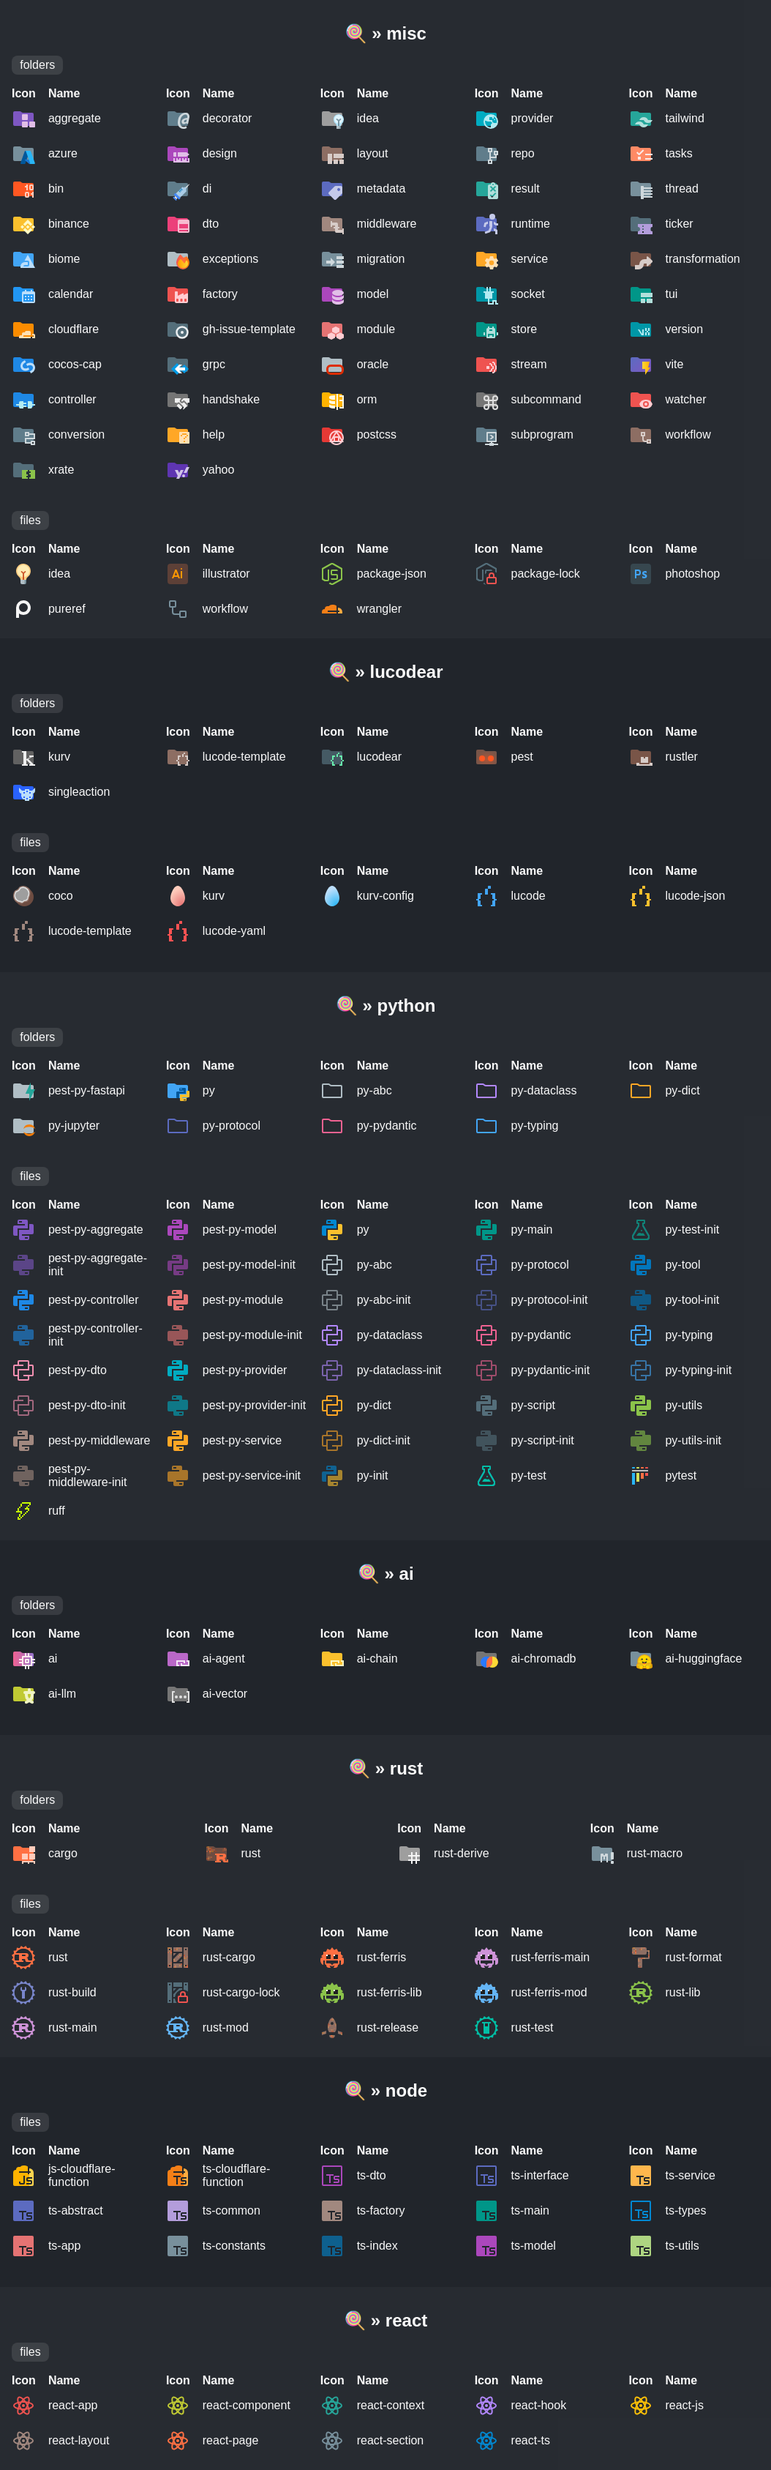
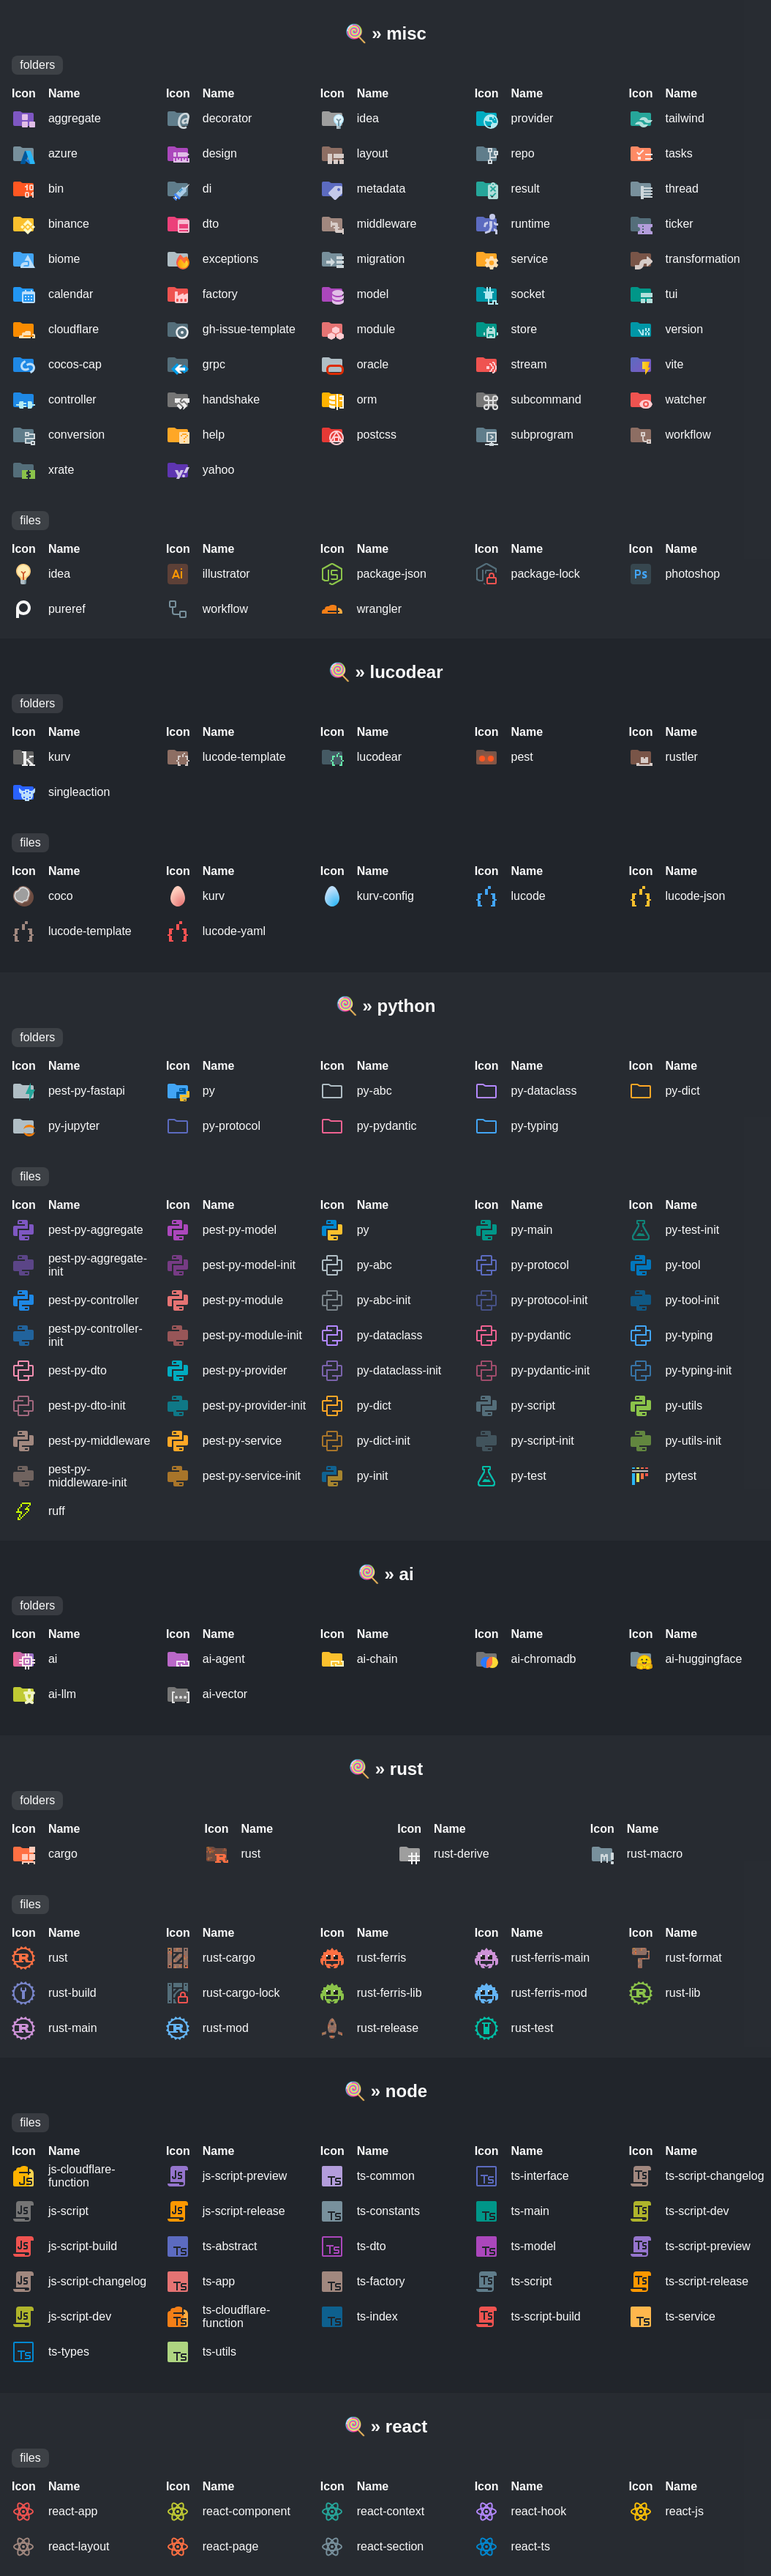
release: 🔖 v1.4.0

diff --git a/CHANGELOG.md b/CHANGELOG.md
@@ -3,10 +3,22 @@
  All notable changes to this project will be documented in this file. Dates are displayed in UTC.
 
  
+#### [v1.4.0](https://github.com/lucodear/lucodear-icons/compare/v1.3.0...v1.4.0) 
+
+> August 5, 2024 
+
+- feat(node): ✨ typescript & javascript script icons [`#98`](https://github.com/lucodear/lucodear-icons/pull/98)
+- Added folder-icon for flutter [`#2511`](https://github.com/lucodear/lucodear-icons/pull/2511)
+- Made pixel-perfect (almost) icons [`#2449`](https://github.com/lucodear/lucodear-icons/pull/2449)
+- Added artifact attestation [`#2486`](https://github.com/lucodear/lucodear-icons/pull/2486)
+- Added folder-icon about development. [`#2501`](https://github.com/lucodear/lucodear-icons/pull/2501)
+- Add Phorm AI badge [`#2508`](https://github.com/lucodear/lucodear-icons/pull/2508)
+ 
 #### [v1.3.0](https://github.com/lucodear/lucodear-icons/compare/v1.2.1...v1.3.0) 
 
 > August 3, 2024 
 
+- release: 🔖 v1.3.0 [`83aad1f4`](https://github.com/lucodear/lucodear-icons/commit/83aad1f4)
 - feat: ✨ cloudflare icon pack [`#97`](https://github.com/lucodear/lucodear-icons/pull/97)
  
 #### [v1.2.1](https://github.com/lucodear/lucodear-icons/compare/v1.2.0...v1.2.1) 
